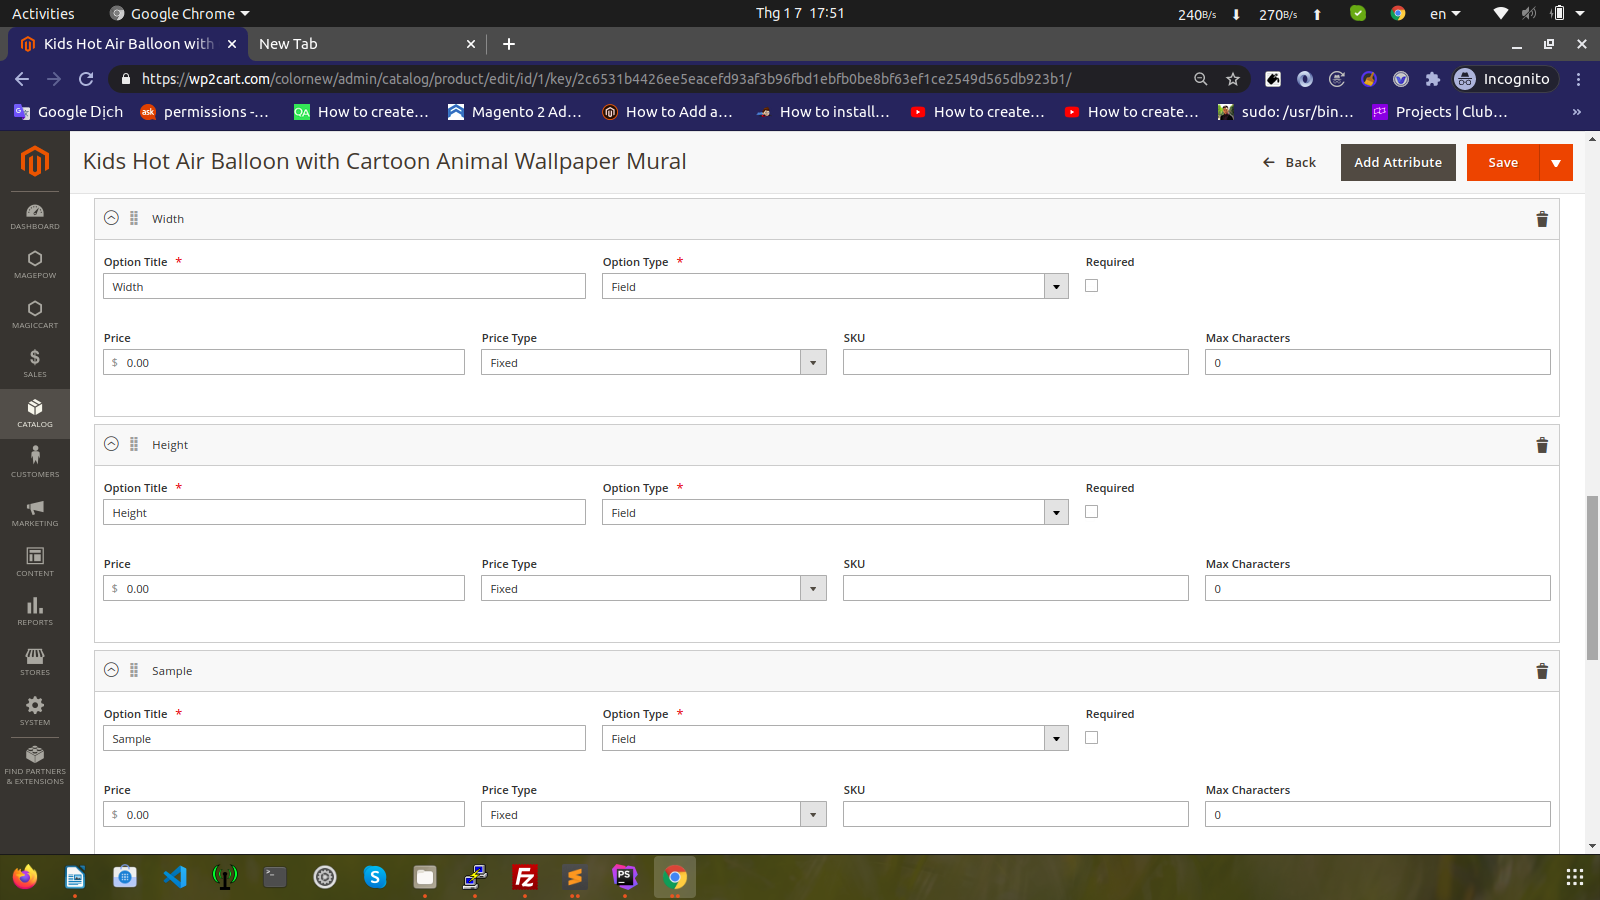
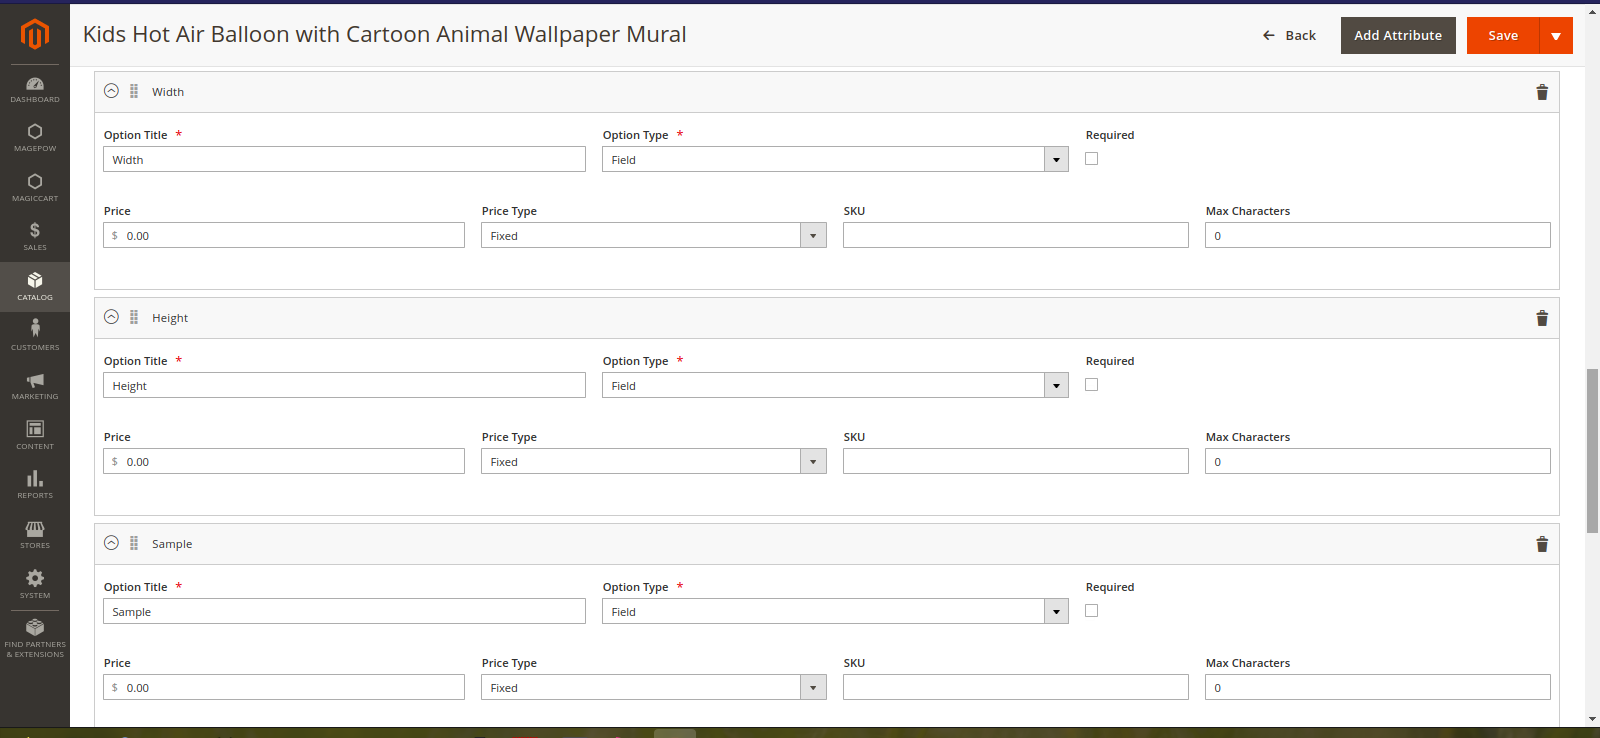
add image

diff --git a/README.md b/README.md
@@ -1,1 +1,2 @@
 # magento2-wallpaper
+![img.png](https://github.com/magepow/magento2-wallpaper/blob/master/media/img.png)
